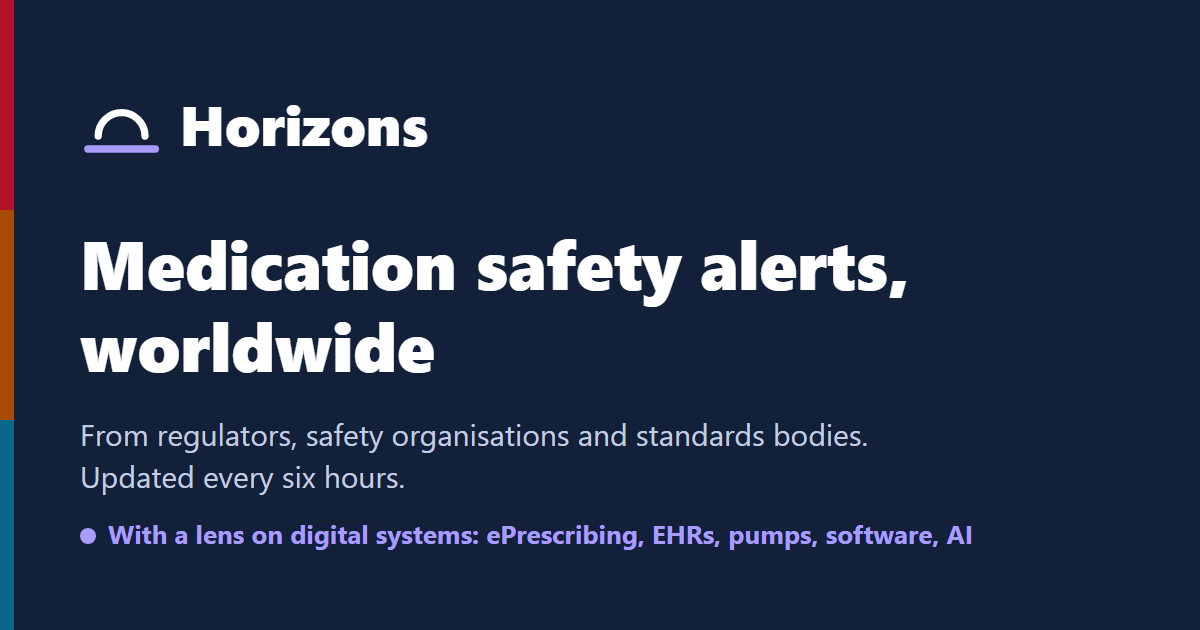
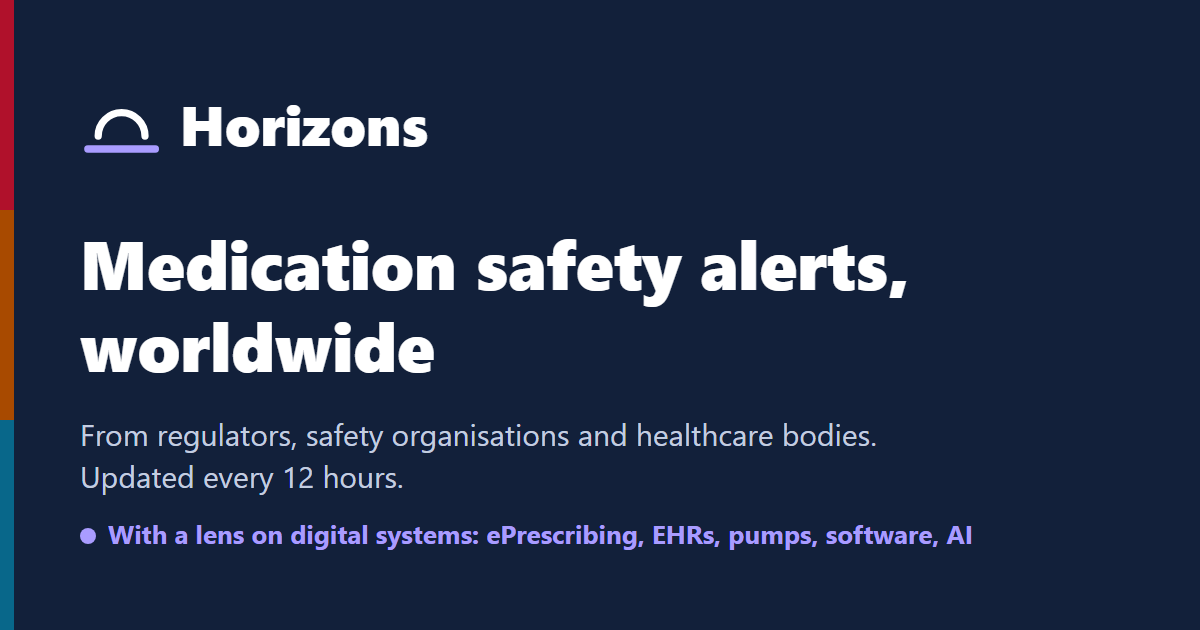
Check sources every 12 hours instead of every 6

Changed region(s): [[0.5242, 0.6635, 0.74, 0.7238], [0.2158, 0.7238, 0.3392, 0.7841]]

diff --git a/src/Sources.tsx b/src/Sources.tsx
@@ -25,7 +25,7 @@ export function Sources({ data, now }: { data: Dataset; now: number }) {
     <article className="page">
       <h1>{data.sources.length} sources across {countries} countries and regions</h1>
       <p className="lede">
-        Horizons checks each of these every six hours. Last check finished {timeAgo(data.generatedAt, now)}
+        Horizons checks each of these every 12 hours. Last check finished {timeAgo(data.generatedAt, now)}
         {failing.length ? `; ${plural(failing.length, 'source')} could not be reached and will be retried.` : ', and every source responded.'}{' '}
         {quiet > 0 && `${plural(quiet, 'source')} responded but had nothing in scope recently, which is normal for bodies that publish rarely. `}
         <a href="#not-included" onClick={(e) => { e.preventDefault(); document.getElementById('not-included')?.scrollIntoView() }}>See the sources we could not include</a>.

diff --git a/index.html b/index.html
@@ -10,7 +10,7 @@
     <meta property="og:type" content="website" />
     <meta property="og:site_name" content="Horizons" />
     <meta property="og:title" content="Horizons: medication safety alerts worldwide" />
-    <meta property="og:description" content="Medication safety alerts, recalls and guidance from regulators and safety organisations worldwide, with a lens on digital systems. Updated every six hours." />
+    <meta property="og:description" content="Medication safety alerts, recalls and guidance from regulators and safety organisations worldwide, with a lens on digital systems. Updated every 12 hours." />
     <meta property="og:url" content="__SITE_URL__/" />
     <meta property="og:image" content="__SITE_URL__/og.png" />
     <meta property="og:image:width" content="1200" />

diff --git a/src/Method.tsx b/src/Method.tsx
@@ -36,7 +36,7 @@ export function Method({ data }: { data: Dataset }) {
 
       <h2>Where the alerts come from</h2>
       <p>
-        Every six hours an automated job reads each organisation's public feed or listing page, keeps the title, date,
+        Every 12 hours an automated job reads each organisation's public feed or listing page, keeps the title, date,
         link and a short extract, and publishes the result as a static file that this site reads. Nothing is rewritten
         or summarised by a model: the text you see is the publisher's own, in the publisher's language. Alerts are
         kept for two years, although most sources only expose their last few months.

diff --git a/README.md b/README.md
@@ -11,7 +11,7 @@ Horizons is a static site. A scheduled GitHub Actions job gathers the alerts, co
 ![Horizons information architecture: public sources feed a scheduled pipeline of adapters, normaliser, scope filter, classifier and merge step, which writes static data files read by the website](docs/architecture.svg)
 
 ```
-GitHub Actions (every 6 hours)
+GitHub Actions (every 12 hours)
   └─ npm run fetch        pipeline/run.mjs reads every source in pipeline/sources/
        ├─ adapters.mjs    RSS/Atom, HTML listings, GOV.UK, openFDA, Health Canada, PubMed, ...
        ├─ classify.mjs    publisher class first, then keyword rules: severity, digital topics, type of notice
@@ -111,7 +111,7 @@ Pull requests that add a source are welcome.
 
 1. Push this repository to GitHub.
 2. In **Settings > Pages**, set **Source** to **GitHub Actions**.
-3. Run the **Update alerts and deploy** workflow once from the Actions tab. After that it runs every six hours and on every push to `main`.
+3. Run the **Update alerts and deploy** workflow once from the Actions tab. After that it runs every 12 hours and on every push to `main`.
 
 The build uses relative paths, so it works at `https://<user>.github.io/<repo>/` without configuration.
 
